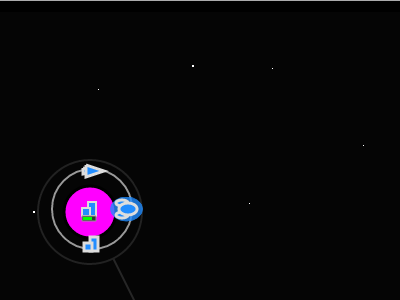
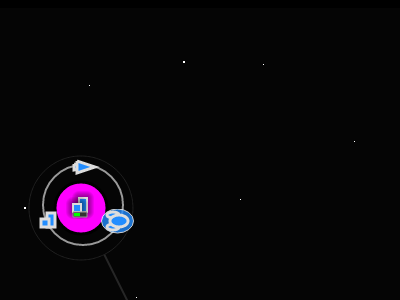
-simplified gameplay

Changed region(s): [[0.09, 0.51, 0.36, 1.0], [0.0, 0.0, 1.0, 0.03]]

diff --git a/planetary.html b/planetary.html
@@ -62,7 +62,7 @@ var g_levels = {
 							text: 'LEVEL 2:\n \nBuild a bomber and\nsend it to attack\nthe enemy\nfactory.',
 							tx: 250, ty: 120
 		},
-		song1: "//dl.dropbox.com/u/102070389/games/planetary/DST-MezzoForty",
+		//song1: "//dl.dropbox.com/u/102070389/games/planetary/DST-MezzoForty",
 		winMessage: 'Bombers can damage buildings but are weak against ships.'
 	},
 	'3': {
@@ -76,14 +76,13 @@ var g_levels = {
 		],
 		ships: [],
 		buildings: [
-			{ team: 'team2', type: 'factory', location: 'C' },
-			{ team: 'team1', type: 'laboratory', location: 'B' }
+			{ team: 'team2', type: 'factory', location: 'C' }
 		],
 		tutorial_image: { 	name: 'level3.png', x: 400, y: 200, w: 400, h: 300,
 							text: 'LEVEL 3:\n \nBuild a factory and\ntake over another\nplanet. Then\nattack!',
 							tx: 250, ty: 120
 		},
-		song1: "//dl.dropbox.com/u/102070389/games/planetary/DST-IceStar",
+		//song1: "//dl.dropbox.com/u/102070389/games/planetary/DST-IceStar",
 		winMessage: 'Active ships cost maintenance and slow down production.'
 	},
 	'4': {
@@ -100,12 +99,12 @@ var g_levels = {
 		ships: [],
 		buildings: [
 		],
-		song1: "//dl.dropbox.com/u/102070389/games/planetary/DST-AngryRobotIII",
-		winMessage: 'Now for a real challenge!'
-		/*tutorial_image: { 	name: 'level3.png', x: 400, y: 200, w: 400, h: 300,
-							text: 'LEVEL 4:\n \nBuild a factory and\ntake over another\nplanet. Then\nattack!',
+		tutorial_image: { 	name: 'blank.png', x: 400, y: 200, w: 400, h: 300,
+							text: 'LEVEL 4:\n \nNow it is up to\nyou. Find the\nenemy and\ndefeat them!',
 							tx: 250, ty: 120
-		}*/
+		},
+		song1: "//dl.dropbox.com/u/102070389/games/planetary/DST-AngryRobotIII",
+		winMessage: 'Nice job.  Now for two enemies...'
 	},
 	'5': {
 		planets: {	'A': { name: 'A', x: 100, y: 100, r: 26, color: '#ff00ff' },
@@ -113,19 +112,20 @@ var g_levels = {
 					'C': { name: 'C', x: 500, y: 400, r: 28, color: '#ff9999' },
 					'D': { name: 'D', x: 700, y: 400, r: 22, color: '#960596' },
 					'E': { name: 'E', x: 800, y: 300, r: 23, color: '#4598DD' },
-					'F': { name: 'F', x: 400, y: 600, r: 30, color: '#9845DD' },
-					'G': { name: 'G', x: 600, y: 200, r: 24, color: '#989233' },
 		},
-		routes: [ 'A_B', 'B_C', 'C_D', 'D_E', 'C_F', 'C_G' ],
+		routes: [ 'A_B', 'B_C', 'C_D', 'D_E' ],
 		players: [
-			{ team: 'team1', location: 'F' },
+			{ team: 'team1', location: 'D' },
 			{ team: 'team2', location: 'A' },
-			{ team: 'team3', location: 'G' },
-			{ team: 'team4', location: 'E' }
+			{ team: 'team3', location: 'C' },
 		],
 		ships: [],
 		buildings: [],
-		song1: "//dl.dropbox.com/u/102070389/games/planetary/Clearside - Assimilator",
+		tutorial_image: { 	name: 'blank.png', x: 400, y: 200, w: 400, h: 300,
+							text: 'LEVEL 5:\n \nTry two enemies\non for size.\n ',
+							tx: 250, ty: 120
+		},
+		song1: "//dl.dropbox.com/u/102070389/games/planetary/DST-MezzoForty",
 		winMessage: 'Last level coming up...'
 	},
 	'6': {
@@ -146,6 +146,10 @@ var g_levels = {
 		],
 		ships: [],
 		buildings: [],
+		tutorial_image: { 	name: 'blank.png', x: 400, y: 200, w: 400, h: 300,
+							text: 'LEVEL 6:\n \nNow it is up to\nyou. Find the\nenemy and\ndefeat them!',
+							tx: 250, ty: 120
+		},
 		song1: "//dl.dropbox.com/u/102070389/games/planetary/Clearside - Assimilator",
 		winMessage: 'You won the whole shebang (so far...)'
 	}
@@ -208,16 +212,7 @@ var g_defs = {
 				fontAttribs2: { 'font-family': '"Nova Square", cursive', stroke: '#ffff00', fill: '#ffff00' }
 			};
 		
-var g_game = {
-				ships: [],
-				planets: {},
-				routes: {},
-				buildings: {},
-				teams: {},
-				explosions: [],
-				sounds: {},
-				music: {}
-};
+var g_game = {sounds: {}, music: {}};
 		
 $(document).ready(function() {
 
@@ -233,11 +228,6 @@ $(document).ready(function() {
  	g_game.sounds.gun = new buzz.sound( "./audio/fx/gun", {
 		formats: [ "ogg", "wav", "mp3" ]
 	});
-
-	if (!localStorage.planetary_level) {
-		localStorage.planetary_level = 1;
-	}
-	g_game.level = g_levels[localStorage.planetary_level];
 	
 	$('#gameHolder').width($(document).width()-32).height($(document).height()-32);
 	g_game.raphPaper = Raphael("gameHolder");
@@ -283,30 +273,32 @@ $(document).ready(function() {
 	var bbox = selFighter.getBBox();
 	var highlight = {};
 	highlight.fighter = g_game.raphPaper.ellipse(bbox.x + bbox.width/2, bbox.y + bbox.height/2, 16, 12).attr({ stroke: '#fff', fill: '#228DFF', opacity: 0.8 }).insertBefore(selFighter);
-	var selBomber = drawShip('bomber', 6, g_defs.teams['team1'].color, 35, -18);
+	var selBomber = drawShip('bomber', 6, g_defs.teams['team1'].color, 36, 16);
 	var bbox = selBomber.getBBox();
 	highlight.bomber = g_game.raphPaper.ellipse(bbox.x + bbox.width/2, bbox.y + bbox.height/2, 16, 12).attr({ stroke: '#fff', fill: '#228DFF', opacity: 0.8 }).insertBefore(selFighter);
-	var selGun = drawShip('gun', 8, g_defs.teams['team1'].color, 34, 18);
-	var bbox = selGun.getBBox();
-	highlight.gun = g_game.raphPaper.ellipse(bbox.x + bbox.width/2, bbox.y + bbox.height/2, 16, 12).attr({ stroke: '#fff', fill: '#228DFF', opacity: 0.8 }).insertBefore(selFighter);
-	var selFactory = drawShip('factory', 6, g_defs.teams['team1'].color, 0, 38);
+	//var selGun = drawShip('gun', 8, g_defs.teams['team1'].color, 34, 18);
+	//var bbox = selGun.getBBox();
+	//highlight.gun = g_game.raphPaper.ellipse(bbox.x + bbox.width/2, bbox.y + bbox.height/2, 16, 12).attr({ stroke: '#fff', fill: '#228DFF', opacity: 0.8 }).insertBefore(selFighter);
+	var selFactory = drawShip('factory', 6, g_defs.teams['team1'].color, -34, 18);
 	var bbox = selFactory.getBBox();
 	highlight.factory = g_game.raphPaper.ellipse(bbox.x + bbox.width/2, bbox.y + bbox.height/2, 16, 12).attr({ stroke: '#fff', fill: '#228DFF', opacity: 0.8 }).insertBefore(selFighter);
-	var selSatellite = drawShip('satellite', 6, g_defs.teams['team1'].color, -34, -18);
-	var bbox = selSatellite.getBBox();
-	highlight.satellite = g_game.raphPaper.ellipse(bbox.x + bbox.width/2, bbox.y + bbox.height/2, 16, 12).attr({ stroke: '#fff', fill: '#228DFF', opacity: 0.8 }).insertBefore(selFighter);
-	var selLaboratory = drawShip('laboratory', 6, g_defs.teams['team1'].color, -34, 18);
-	var bbox = selLaboratory.getBBox();
-	highlight.laboratory = g_game.raphPaper.ellipse(bbox.x + bbox.width/2, bbox.y + bbox.height/2, 16, 12).attr({ stroke: '#fff', fill: '#228DFF', opacity: 0.8 }).insertBefore(selFighter);
+	//var selSatellite = drawShip('satellite', 6, g_defs.teams['team1'].color, -34, -18);
+	//var bbox = selSatellite.getBBox();
+	//highlight.satellite = g_game.raphPaper.ellipse(bbox.x + bbox.width/2, bbox.y + bbox.height/2, 16, 12).attr({ stroke: '#fff', fill: '#228DFF', opacity: 0.8 }).insertBefore(selFighter);
+	//var selLaboratory = drawShip('laboratory', 6, g_defs.teams['team1'].color, -34, 18);
+	//var bbox = selLaboratory.getBBox();
+	//highlight.laboratory = g_game.raphPaper.ellipse(bbox.x + bbox.width/2, bbox.y + bbox.height/2, 16, 12).attr({ stroke: '#fff', fill: '#228DFF', opacity: 0.8 }).insertBefore(selFighter);
 
-	g_game.shipSelector.push(	highlight.fighter,highlight.bomber,highlight.factory,highlight.gun,highlight.satellite,highlight.laboratory,
-								selFighter,selBomber,selFactory,selGun,selSatellite,selLaboratory);
+	g_game.shipSelector.push(	highlight.fighter,highlight.bomber,highlight.factory,
+								selFighter,selBomber,selFactory);
+	//g_game.shipSelector.push(	highlight.fighter,highlight.bomber,highlight.factory,highlight.gun,highlight.satellite,highlight.laboratory,
+	//							selFighter,selBomber,selFactory,selGun,selSatellite,selLaboratory);
 	selFighter.hover(function() { g_game.shipSelector.game.hoverSelect('fighter'); });
 	selBomber.hover(function() { g_game.shipSelector.game.hoverSelect('bomber'); });
 	selFactory.hover(function() { g_game.shipSelector.game.hoverSelect('factory'); });
-	selGun.hover(function() { g_game.shipSelector.game.hoverSelect('gun'); });
-	selSatellite.hover(function() { g_game.shipSelector.game.hoverSelect('satellite'); });
-	selLaboratory.hover(function() { g_game.shipSelector.game.hoverSelect('laboratory'); });
+	//selGun.hover(function() { g_game.shipSelector.game.hoverSelect('gun'); });
+	//selSatellite.hover(function() { g_game.shipSelector.game.hoverSelect('satellite'); });
+	//selLaboratory.hover(function() { g_game.shipSelector.game.hoverSelect('laboratory'); });
 	g_game.shipSelector.game = {
 		hoverSelect: function(type) {
 			for (var key in highlight) {
@@ -337,7 +329,7 @@ $(document).ready(function() {
 	g_game.gameMessage = g_game.raphPaper.set([
 		g_game.raphPaper.text(0, 0, 'The message').attr(g_defs.fontAttribs).attr({ 'font-size': 32 }),
 		g_game.raphPaper.text(0, 0, '<- prev lvl').attr(g_defs.fontAttribs).attr({ 'font-size': 24,  href: 'javascript: moveLevel(-1)' }),
-		g_game.raphPaper.text(0, 0, '@ restart').attr(g_defs.fontAttribs).attr({ 'font-size': 24,  href: 'javascript: location.href = location.href' }),
+		g_game.raphPaper.text(0, 0, '@ restart').attr(g_defs.fontAttribs).attr({ 'font-size': 24,  href: 'javascript: loadLevel()' }),
 		g_game.raphPaper.text(0, 0, 'next lvl ->').attr(g_defs.fontAttribs).attr({ 'font-size': 24,  href: 'javascript: moveLevel(1)' })
 	]).hide();
 	g_game.gameMessage.game = { show: false, positions: [[0, -40], [-200, 60], [0, 60], [200, 60]] };
@@ -346,16 +338,81 @@ $(document).ready(function() {
 	g_game.routeSelector.toBack().hide();
 	g_game.routeSelector.game = { isActive: false, points: [] };
 
-	// load level
+	loadLevel();
+});
+
+function clearLevel() {
+
+	if (g_game.ships) {
+		for (var i=g_game.ships.length-1;i>=0;i--) {
+			g_game.ships[i].destroy(true);
+		}
+		for (var key in g_game.routes) {
+			g_game.routes[key].destroy();
+		}
+		for (var key in g_game.planets) {
+			g_game.planets[key].destroy();
+		}
+		for (var key in g_game.buildings) {
+			if (g_game.buildings[key]) {
+				g_game.buildings[key].destroy(true);
+			}
+		}
+		for (var i=g_game.explosions.length-1;i>=0;i--) {
+			g_game.explosions[i].destroy(true);
+		}
+	}
+	
+	g_game.routeSelector.hide();
+	g_game.routeSelector.game.isActive = false;
+	g_game.gameMessage.hide();
+	if (g_game.tutorial_set) {
+		while (g_game.tutorial_set.length > 0) {
+			g_game.tutorial_set.pop().remove();
+		}
+	}
+	
+	g_game.ships = [];
+	g_game.planets = {};
+	g_game.routes = {};
+	g_game.buildings = {};
+	g_game.explosions = [];
+	g_game.teams = {};
+}
+
+function loadLevel() {
+	
+	clearLevel();
+	
+	if (!localStorage.planetary_level) {
+		localStorage.planetary_level = 1;
+	}
+	g_game.level = g_levels[localStorage.planetary_level];
+
 	while (!g_game.level) {
 		localStorage.planetary_level = Math.max(1, parseInt(localStorage.planetary_level, 10) - 1);
 		console.log('down to ' + localStorage.planetary_level);
 		g_game.level = g_levels[localStorage.planetary_level];
 	}
- 	g_game.music.song1 = new buzz.sound(g_game.level.song1, {
-		formats: [ "mp3" ],
-	});
-	g_game.music.song1.play().loop();
+	
+	// if new song or no current song
+	if (g_game.level.song1 || !g_game.music.song1) {
+		if (g_game.music.song1) {
+			g_game.music.song1.stop();
+		}
+		// find a song
+		var level = parseInt(localStorage.planetary_level, 10);
+		var song = undefined;
+		while (!song) {
+			song = g_levels[level].song1;
+			level = level - 1;
+		}
+		g_game.music.song1 = new buzz.sound(song, {
+			formats: [ "ogg", "mp3" ],
+			autoplay: true,
+			loop: true
+		});
+	}
 	
 	for (var name in g_game.level.planets) {
 		g_game.planets[name] = new Planet(name, g_game.level.planets[name].x, g_game.level.planets[name].y, 
@@ -394,14 +451,23 @@ $(document).ready(function() {
 		g_game.tutorial_set[0].game = { tx: g_game.level.tutorial_image.tx, ty: g_game.level.tutorial_image.ty };
 	}
 
+
+	// center on players home
+	var home = g_game.planets[g_game.level.players[0].location];
+	g_game.background.game.vx = home.x - g_game.raphPaper.width/4;
+	g_game.background.game.vy = home.y - g_game.raphPaper.height/2;
+	g_game.raphPaper.setViewBox(g_game.background.game.vx, g_game.background.game.vy, g_game.raphPaper.width, g_game.raphPaper.height);
+
 	positionGameText();
+	
 	doGameLoop(0);
 	
-});
+};
 
 var moveLevel = function(amt) {
 	localStorage.planetary_level = parseInt(localStorage.planetary_level, 10) + amt;
-	location.href = location.href;
+	//location.href = location.href;
+	loadLevel();
 }
 
 var initTeam = function(team, home) {
@@ -438,8 +504,12 @@ var Explosion = function(image) {
 	g_game.sounds.explosion.play();
  
 	var time = 0;
+	var destroyed = false;
 	this.animate = function() {
-
+		if (destroyed) {
+			return false;
+		}
+	
 		if (time > 10) {
 			blocks[0].remove();
 			blocks[1].remove();
@@ -455,6 +525,13 @@ var Explosion = function(image) {
 		time++;
 		return true;
 	};
+	this.destroy = function() {
+		destroyed = true;
+		blocks[0].remove();
+		blocks[1].remove();
+		blocks[2].remove();
+		blocks[3].remove();
+	}
 	
 	return this;
 };
@@ -500,7 +577,7 @@ function sector(cx, cy, radius, startAngle, endAngle) {
 function getUpgrades() {
 	var result = {};
 	for (var key in g_game.buildings) {
-		if (g_game.buildings[key].type == 'laboratory') {
+		if (g_game.buildings[key] && g_game.buildings[key].type == 'laboratory') {
 			result[g_game.buildings[key].researchType] = true;
 		}
 	}
@@ -511,9 +588,9 @@ var drawShip = function(type, r, color, offsetX, offsetY, upgrades) {
 	var ship = g_game.raphPaper.set();
 	if (type == 'fighter') {
 		var points = [];
-		if (upgrades && upgrades.engine) {
+		//if (upgrades && upgrades.engine) {
 			points.push([ [-r*1.5, -r/2], [r, 0], 	[-r*1.5, r/2] ]);
-		}
+		//}
 		points.push([ [-r, -r], 	[2*r, 0], 	[-r, r] ]);
 		for (var j=0;j<points.length;j++) {
 			var path = '';
@@ -678,8 +755,8 @@ var Building = function(myType, planetName, myTeam) {
 	
 	self.redraw();
 	self.bAlive = true;
-	self.destroy = function() {
-		if (self.visible) {
+	self.destroy = function(skipAnimate) {
+		if (self.visible && !skipAnimate) {
 			g_game.explosions.push(new Explosion(self.image));
 		}
 		glow.remove();
@@ -778,6 +855,10 @@ var Route = function(planetA, planetB) {
 		}
 		len++;
 	}
+	
+	this.destroy = function() {
+		this.image.remove();
+	}
 		
 	return this;
 }
@@ -866,6 +947,12 @@ var Planet = function(name, myX, myY, myR, myColor) {
 		}
 	);
 	
+	this.destroy = function() {
+		this.orbit.remove();
+		imgPlanet.remove();
+		cover.remove();
+	};
+	
 	this.hide = function() {
 		this.orbit.hide();
 		imgPlanet.hide();
@@ -944,8 +1031,8 @@ var Ship = function(myType, myTeam, locX, locY, r, start) {
 		}
 	}
 	
-	self.destroy = function() {
-		if (self.visible) {
+	self.destroy = function(skipAnimate) {
+		if (self.visible && !skipAnimate) {
 			g_game.explosions.push(new Explosion(self.image));
 		}
 		if (self.orbitting) {
